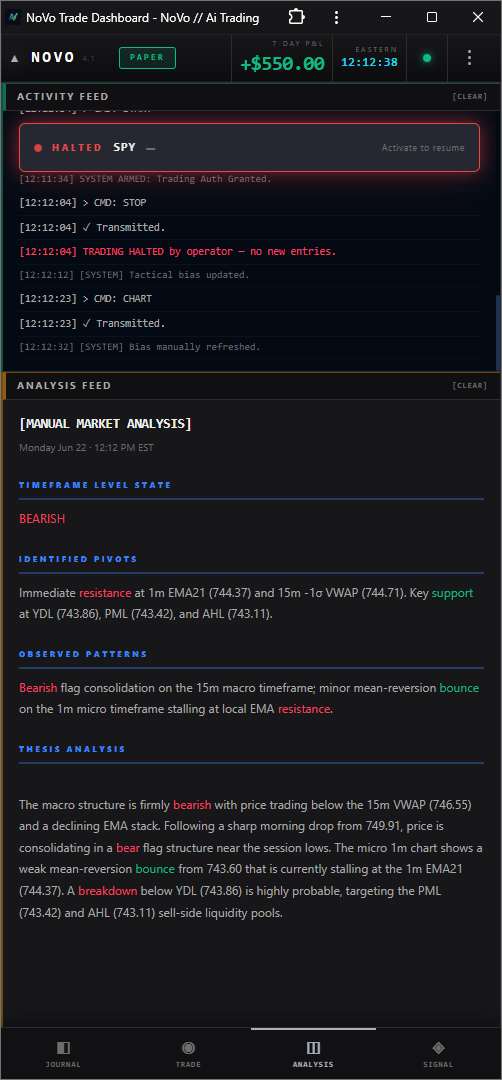
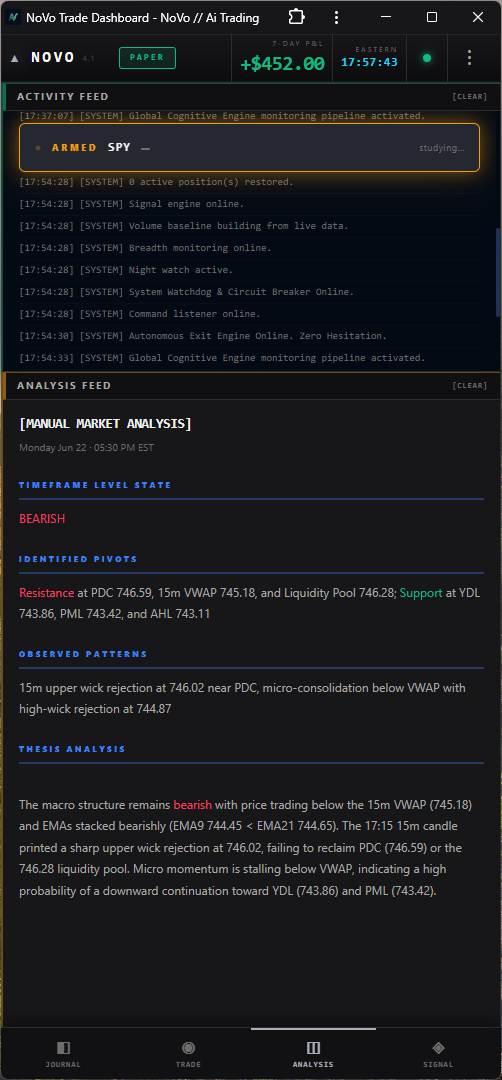
Update gallery screenshots: new dashboard (redacted) + mobile (studying badge), cache-bust v3
dashboard.png: fresh capture (new equity chart + dots) re-blurred (Apex tuner/floors +
conviction sizing, verified). mobile-analysis.png: new clean shot showing the 'studying...'
idle badge. Bumped ?v=2 -> v=3 on both.

diff --git a/public/index.html b/public/index.html
@@ -581,7 +581,7 @@
           <span class="ss-label">NoVo Command Dashboard</span>
           <span class="ss-live">● LIVE</span>
         </div>
-        <img src="/screenshots/dashboard.png?v=2" alt="NoVo desktop command dashboard — live tape, AI analysis, trade log and risk controls" loading="lazy">
+        <img src="/screenshots/dashboard.png?v=3" alt="NoVo desktop command dashboard — live tape, AI analysis, trade log and risk controls" loading="lazy">
       </div>
       <p class="ss-caption">The full command deck — live tape, AI structural read, trade log, and one-click risk controls.</p>
 
@@ -603,7 +603,7 @@
           <p class="ss-mobile-cap">Run it from your phone — wins, P&amp;L, and one-tap exits.</p>
         </div>
         <div>
-          <div class="ss-mobile"><img src="/screenshots/mobile-analysis.png?v=2" alt="NoVo mobile AI market analysis" loading="lazy"></div>
+          <div class="ss-mobile"><img src="/screenshots/mobile-analysis.png?v=3" alt="NoVo mobile AI market analysis" loading="lazy"></div>
           <p class="ss-mobile-cap">The AI's live market read — bias, key levels, and full thesis.</p>
         </div>
       </div>

diff --git a/build_shots.py b/build_shots.py
@@ -13,7 +13,7 @@ def blur_region(img, box, radius):
 
 # 1. dashboard.png — blur Apex Signal Tuner + Entry Trigger Floors (right column, lower).
 #    Keeps Market Intel / Live Signal / NoVo Status visible above.
-d = Image.open(os.path.join(SRC, "Screenshot 2026-06-22 115524.png")).convert("RGB")
+d = Image.open(os.path.join(SRC, "Screenshot 2026-06-22 175717.png")).convert("RGB")
 blur_region(d, (1522, 672, 1920, 1080), 16)
 # Also blur Conviction Sizing (left panel) — its field labels re-expose the apex bands
 # (55/75) and the size-multiplier ladder. Keeps the "CONVICTION SIZING" title visible.
@@ -29,8 +29,8 @@ blur_region(j, (918, 758, 1362, 1080), 13)   # STRAT + EXIT REASON columns
 j.save(os.path.join(OUT, "journal.png"))
 print("journal.png done")
 
-# 3. mobile-analysis.png — clean (new 'Trading halted by operator' wording); use as-is.
-Image.open(os.path.join(SRC, "Screenshot 2026-06-22 121240.png")).convert("RGB").save(
+# 3. mobile-analysis.png — clean (shows the new 'studying...' idle badge); use as-is.
+Image.open(os.path.join(SRC, "Screenshot 2026-06-22 175746.png")).convert("RGB").save(
     os.path.join(OUT, "mobile-analysis.png"))
 print("mobile-analysis.png done")
 